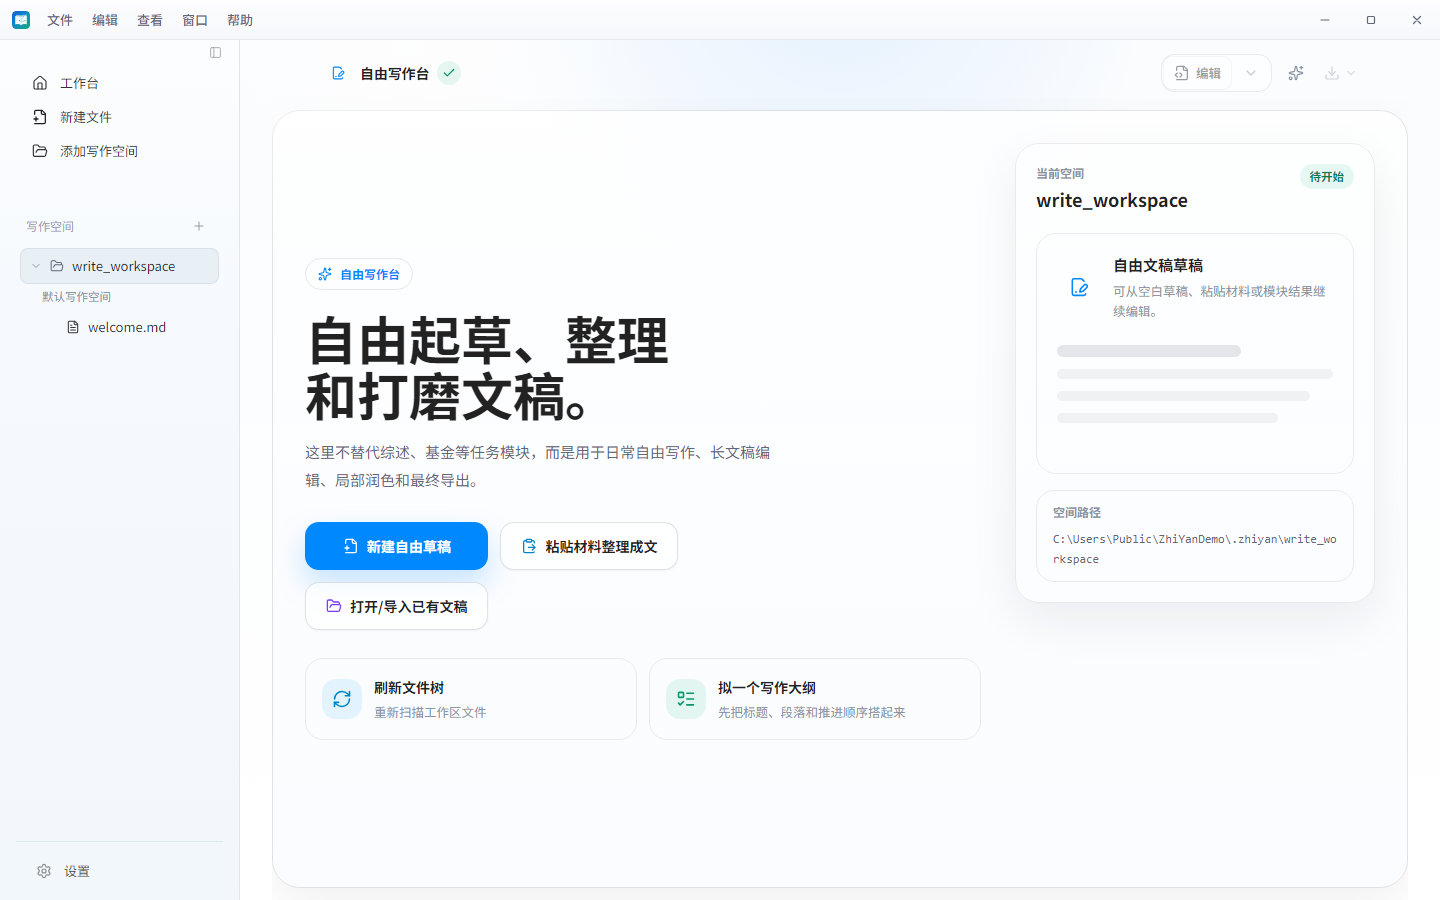
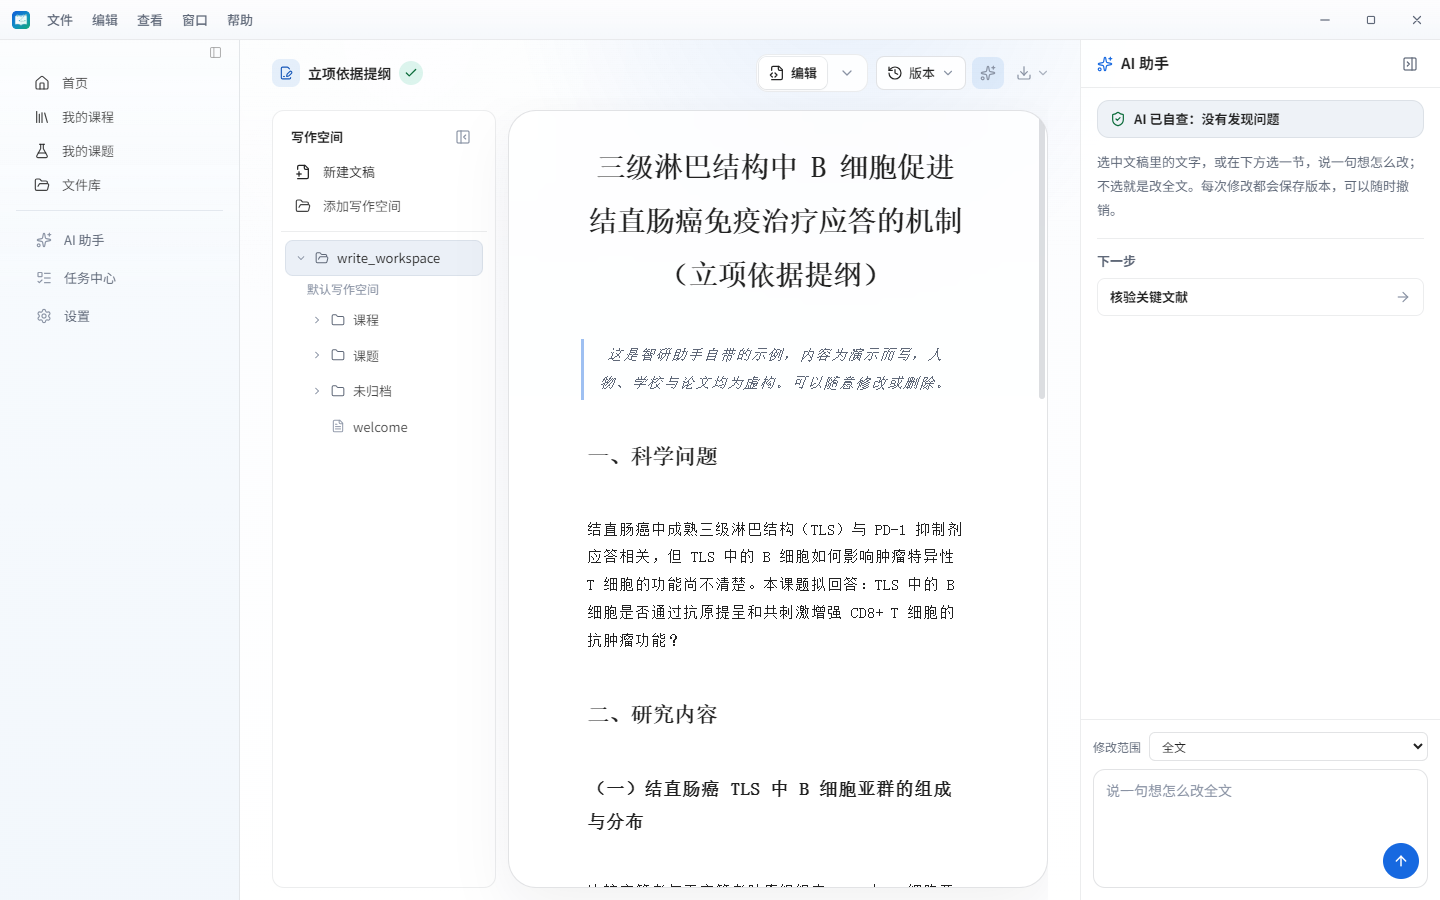
docs: retake the 文稿 screenshot with the example topic
The README's writing screenshot now shows the example grant outline open in
文稿 with the AI column's self-check and next steps, taken in a separate demo
profile so no personal documents appear.

diff --git a/docs/AI_NATIVE_REDESIGN_PLAN.md b/docs/AI_NATIVE_REDESIGN_PLAN.md
@@ -419,7 +419,7 @@ type TeacherPreference = {
 
 #### Task 0.6 · P0 验收
 
-- [~] **0.6.1** 全部页面在亮、暗两种主题下截图审查（方法见第八节）；更新 `docs/images/` 中的 README 截图。（2026-10-22）13 个页面两种主题已截图审查，排版与配色一致；审查中发现并修复：在 AI 对话页打开写作会话时，用户消息显示内部“写作上下文”原文（含 `request_user_input` 和本机路径）——原因是只在写作页解析，且未解析历史消息自带的显示文本；写作上下文展开后也不再显示工作区路径。README 截图已更新工作台、课件、数据分析三张；**自由写作台一张仍为旧图**，需要用去标识的演示文稿重拍（开发者本机的写作空间只有个人文稿，不适合放入公开仓库）。
+- [x] **0.6.1** 全部页面在亮、暗两种主题下截图审查（方法见第八节）；更新 `docs/images/` 中的 README 截图。（2026-10-22）13 个页面两种主题已截图审查，排版与配色一致；审查中发现并修复：在 AI 对话页打开写作会话时，用户消息显示内部“写作上下文”原文（含 `request_user_input` 和本机路径）——原因是只在写作页解析，且未解析历史消息自带的显示文本；写作上下文展开后也不再显示工作区路径。README 截图已更新工作台、课件、数据分析三张；自由写作台一张已于 2026-10-26 重拍：在独立的演示配置（不读写本机设置和文稿）中装入 Task 4.2.1 的示例课题，打开“立项依据提纲（示例）”，右栏显示 AI 自查与下一步；README 标题改为“文稿：说一句就改，交付前自查”。截图时隐藏了演示配置因未填 API Key 而出现的运行时提示条。
 
 ### P1 AI 交互骨架
 
@@ -602,4 +602,4 @@ npx electron-vite dev --remoteDebuggingPort 9222
 
 ## 十一、当前执行位置
 
-当前执行任务：**P4 的 Task 4.1–4.4 已完成。Task 4.5.1（至少 5 位教师实测）需要真实教师参与，无法由开发代做。Task 0.6.1 仍差自由写作台的 README 截图。P2–P4 的 AI 生成部分只用模拟模型和测试验证过，尚未在真实模型上逐个跑通；引用核验未连真实 PubMed 测试。**
+当前执行任务：**P4 的 Task 4.1–4.4 已完成。Task 4.5.1（至少 5 位教师实测）需要真实教师参与，无法由开发代做。Task 0.6.1 已完成。P2–P4 的 AI 生成部分只用模拟模型和测试验证过，尚未在真实模型上逐个跑通；引用核验未连真实 PubMed 测试。**

diff --git a/README.md b/README.md
@@ -21,9 +21,9 @@
 | --- | --- |
 | ![智研助手工作台](docs/images/zhiyan-workbench.png) | ![课件 PPT 制作](docs/images/zhiyan-courseware.png) |
 
-| 无代码科研数据分析 | 简洁的自由写作台 |
+| 无代码科研数据分析 | 文稿：说一句就改，交付前自查 |
 | --- | --- |
-| ![科研数据分析](docs/images/zhiyan-data-analysis.png) | ![自由写作台](docs/images/zhiyan-free-writing.png) |
+| ![科研数据分析](docs/images/zhiyan-data-analysis.png) | ![文稿与 AI 自查](docs/images/zhiyan-free-writing.png) |
 
 ## 一套软件，覆盖教学与科研常见任务
 
